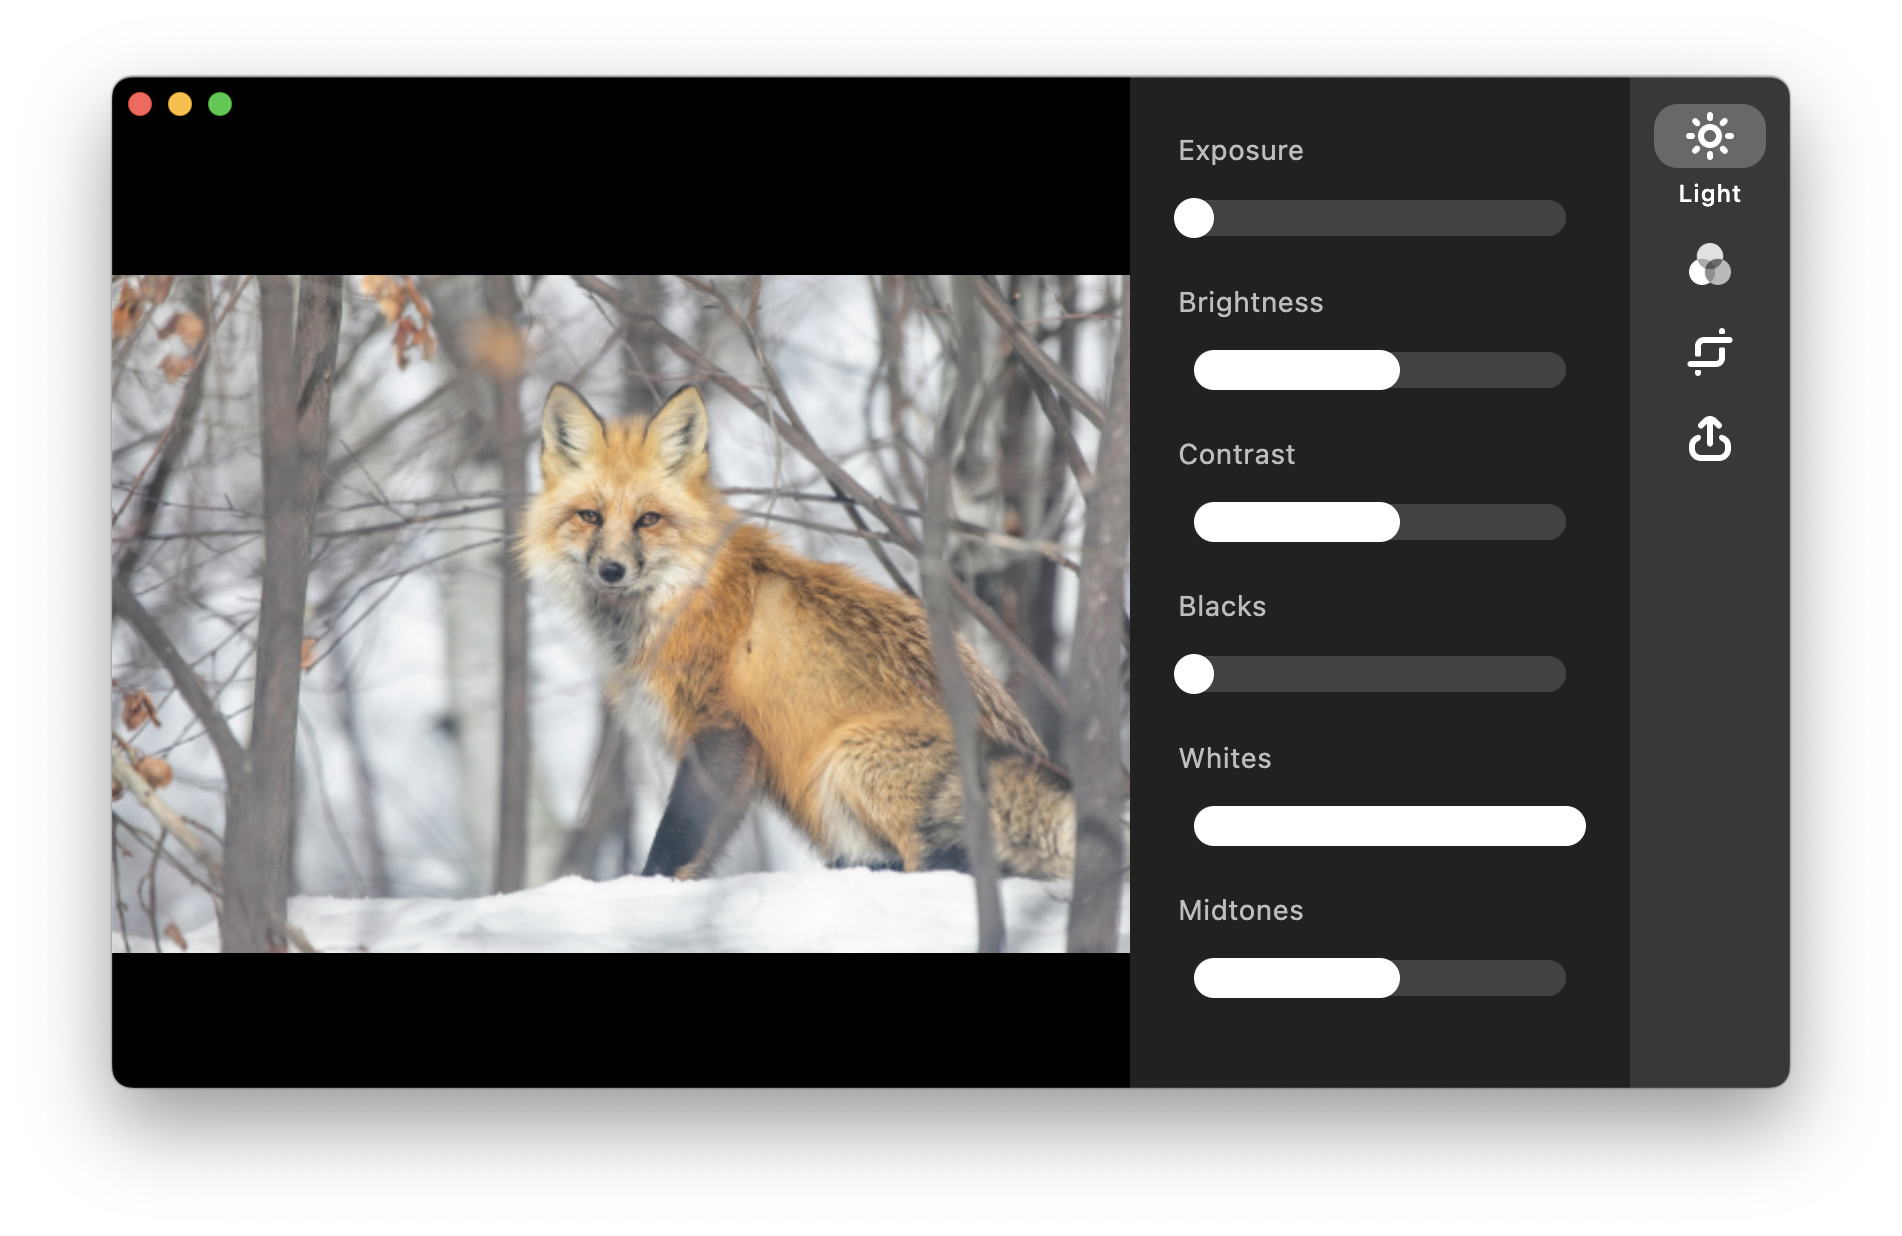
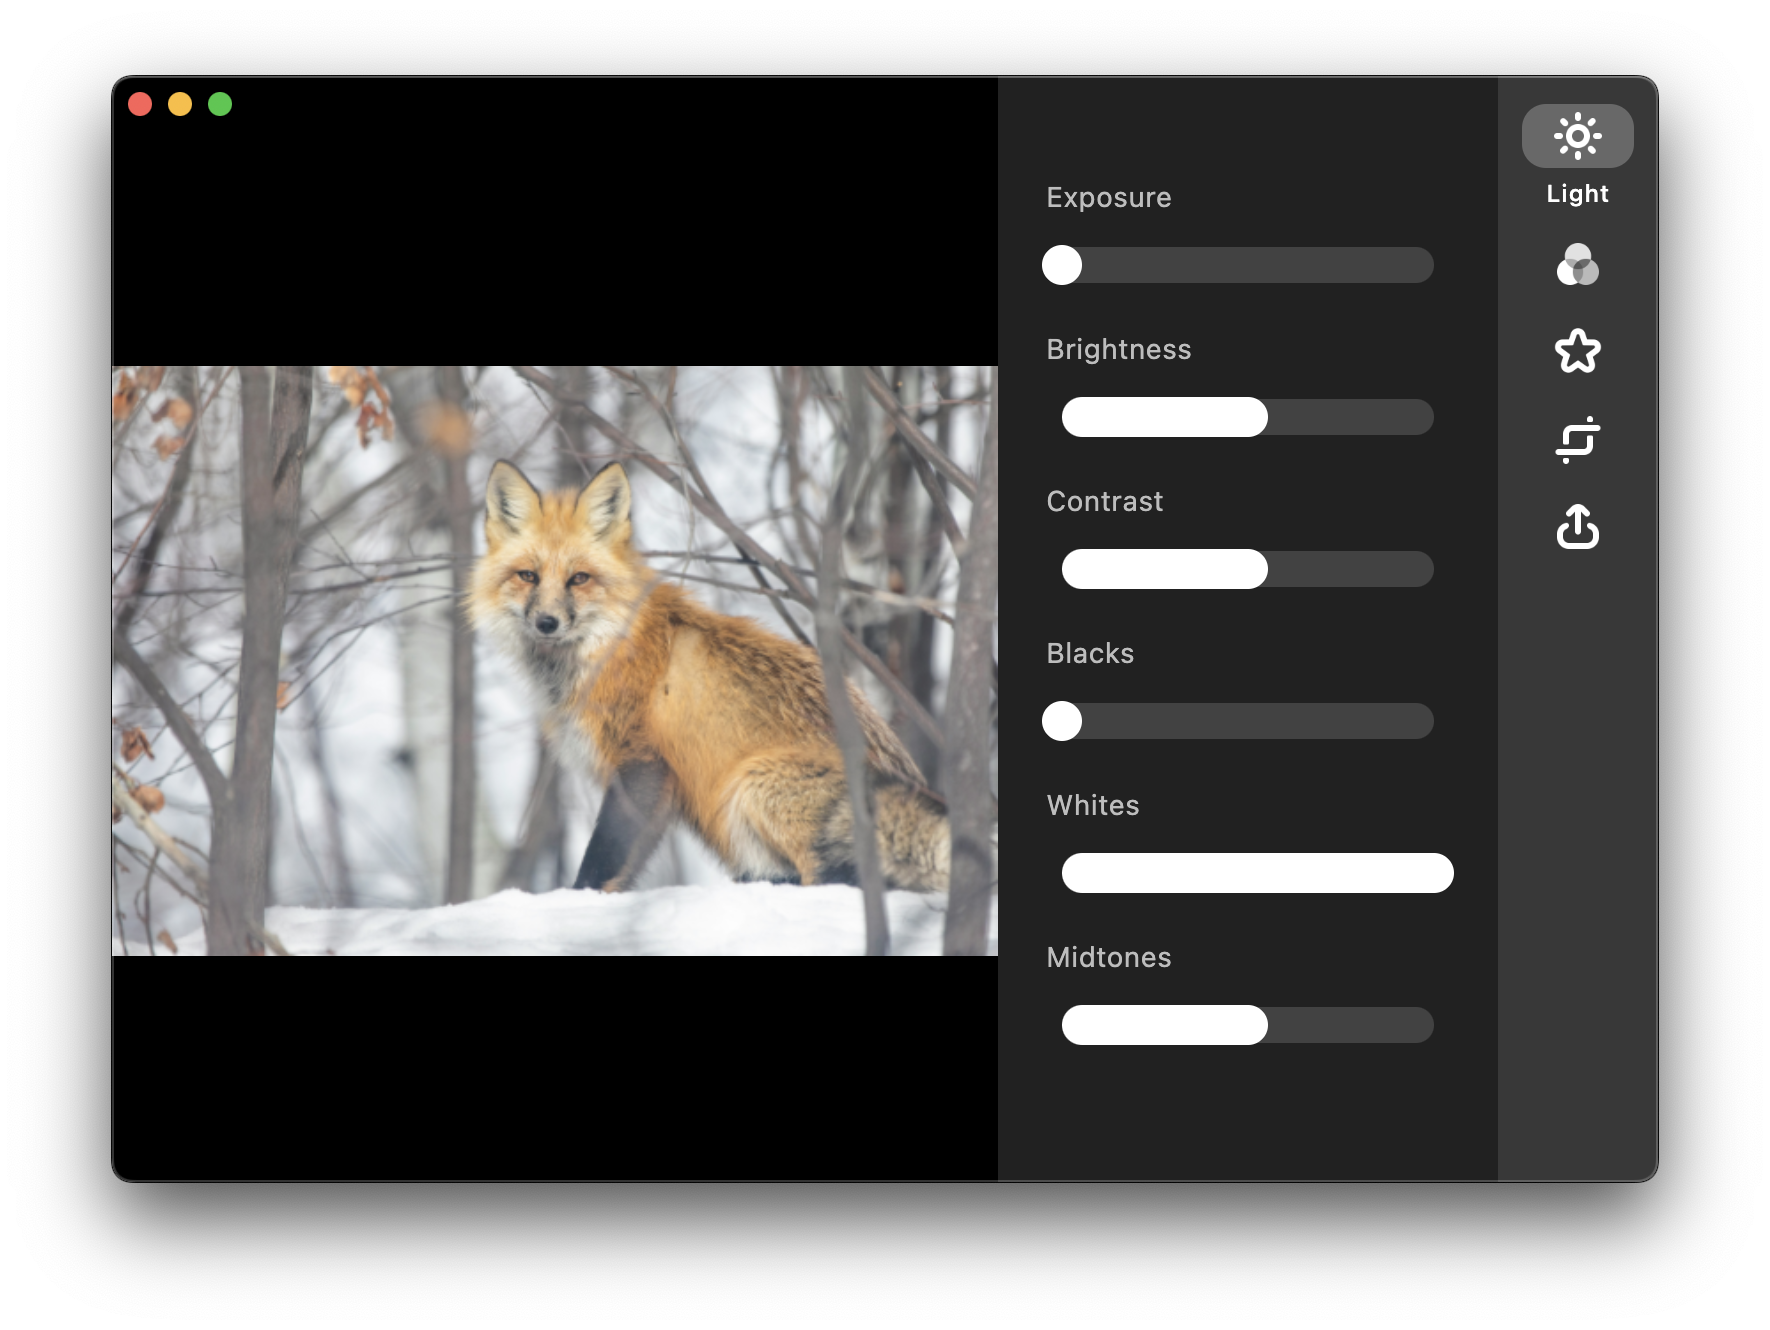
Add effects tab

diff --git a/lib/editor_page.dart b/lib/editor_page.dart
@@ -24,6 +24,8 @@ class SlyEditorPage extends StatefulWidget {
 
 class _SlyEditorPageState extends State<SlyEditorPage> {
   final GlobalKey<SlyButtonState> slyButtonKey = GlobalKey<SlyButtonState>();
+  final GlobalKey imageWidgetKey = GlobalKey();
+  final GlobalKey controlsWidgetKey = GlobalKey();
 
   late SlyImage flippedImage = widget.image;
   late SlyImage thumbnail;
@@ -165,6 +167,7 @@ class _SlyEditorPageState extends State<SlyEditorPage> {
       final croppedImage = SlyImage.fromImage(imgImage);
       croppedImage.lightAttributes = thumbnail.lightAttributes;
       croppedImage.colorAttributes = thumbnail.colorAttributes;
+      croppedImage.effectAttributes = thumbnail.effectAttributes;
       await croppedImage.applyEdits();
 
       if (!(await saveImage(await croppedImage.encode(format: format),
@@ -191,6 +194,8 @@ class _SlyEditorPageState extends State<SlyEditorPage> {
         thumbnail.lightAttributes = croppedThumbnail.lightAttributes;
     flippedImage.colorAttributes =
         thumbnail.colorAttributes = croppedThumbnail.colorAttributes;
+    flippedImage.effectAttributes =
+        thumbnail.effectAttributes = croppedThumbnail.effectAttributes;
 
     thumbnail.encode().then((data) {
       setState(() {
@@ -235,6 +240,7 @@ class _SlyEditorPageState extends State<SlyEditorPage> {
       croppedThumbnail = SlyImage.fromImage(image);
       croppedThumbnail.lightAttributes = thumbnail.lightAttributes;
       croppedThumbnail.colorAttributes = thumbnail.colorAttributes;
+      croppedThumbnail.effectAttributes = thumbnail.effectAttributes;
       updateImage();
     }
 
@@ -296,12 +302,17 @@ class _SlyEditorPageState extends State<SlyEditorPage> {
           );
 
           final imageWidget = Expanded(
-            flex: 7,
+            key: imageWidgetKey,
             child: AnimatedPadding(
-              duration: const Duration(milliseconds: 300),
+              duration: const Duration(milliseconds: 600),
               curve: Curves.easeOutQuint,
-              padding: EdgeInsets.all(_selectedPageIndex == 2 ? 32 : 0),
-              child: _selectedPageIndex == 2 ? cropImageView : imageView,
+              padding: _selectedPageIndex == 3
+                  ? const EdgeInsets.symmetric(
+                      horizontal: 32,
+                      vertical: 12,
+                    )
+                  : const EdgeInsets.all(0),
+              child: _selectedPageIndex == 3 ? cropImageView : imageView,
             ),
           );
 
@@ -415,6 +426,63 @@ class _SlyEditorPageState extends State<SlyEditorPage> {
                       onChanged: (value) {},
                       onChangeEnd: (value) {
                         croppedThumbnail.colorAttributes.values
+                            .elementAt(index)
+                            .value = value;
+                        updateImage();
+                      },
+                    ),
+                  ],
+                ),
+              );
+            },
+          );
+
+          final effectControls = ListView.builder(
+            key: const Key('effectControls'),
+            physics: constraints.maxWidth > 600
+                ? null
+                : const NeverScrollableScrollPhysics(),
+            shrinkWrap: true,
+            itemCount: croppedThumbnail.effectAttributes.length,
+            itemBuilder: (context, index) {
+              return Padding(
+                padding: EdgeInsets.only(
+                  left: 8,
+                  right: 8,
+                  top: index == 0 ? 16 : 0,
+                  bottom: index == croppedThumbnail.effectAttributes.length - 1
+                      ? 28
+                      : 0,
+                ),
+                child: Column(
+                  crossAxisAlignment: CrossAxisAlignment.start,
+                  children: <Widget>[
+                    Padding(
+                      padding: const EdgeInsets.only(left: 16, top: 8),
+                      child: Text(
+                        croppedThumbnail.effectAttributes.values
+                            .elementAt(index)
+                            .name,
+                        style: TextStyle(color: Colors.grey.shade400),
+                      ),
+                    ),
+                    SlySlider(
+                      value: croppedThumbnail.effectAttributes.values
+                          .elementAt(index)
+                          .value,
+                      secondaryTrackValue: croppedThumbnail
+                          .effectAttributes.values
+                          .elementAt(index)
+                          .anchor,
+                      min: croppedThumbnail.effectAttributes.values
+                          .elementAt(index)
+                          .min,
+                      max: croppedThumbnail.effectAttributes.values
+                          .elementAt(index)
+                          .max,
+                      onChanged: (value) {},
+                      onChangeEnd: (value) {
+                        croppedThumbnail.effectAttributes.values
                             .elementAt(index)
                             .value = value;
                         updateImage();
@@ -544,7 +612,7 @@ class _SlyEditorPageState extends State<SlyEditorPage> {
 
           void navigationDestinationSelected(int index) {
             if (_selectedPageIndex == index) return;
-            if (_selectedPageIndex == 2) updateCroppedImage();
+            if (_selectedPageIndex == 3) updateCroppedImage();
 
             _selectedPageIndex = index;
 
@@ -559,9 +627,13 @@ class _SlyEditorPageState extends State<SlyEditorPage> {
                 });
               case 2:
                 setState(() {
-                  controlsChild = geometryControls;
+                  controlsChild = effectControls;
                 });
               case 3:
+                setState(() {
+                  controlsChild = geometryControls;
+                });
+              case 4:
                 setState(() {
                   controlsChild = exportControls;
                 });
@@ -597,6 +669,13 @@ class _SlyEditorPageState extends State<SlyEditorPage> {
                   color: Colors.white,
                 ),
                 label: Text('Color'),
+              ),
+              NavigationRailDestination(
+                icon: ImageIcon(
+                  AssetImage('assets/icons/effects.png'),
+                  color: Colors.white,
+                ),
+                label: Text('Effects'),
               ),
               NavigationRailDestination(
                 icon: ImageIcon(
@@ -645,6 +724,13 @@ class _SlyEditorPageState extends State<SlyEditorPage> {
               ),
               NavigationDestination(
                 icon: ImageIcon(
+                  AssetImage('assets/icons/effects.png'),
+                  color: Colors.white,
+                ),
+                label: 'Effects',
+              ),
+              NavigationDestination(
+                icon: ImageIcon(
                   AssetImage('assets/icons/geometry.png'),
                   color: Colors.white,
                 ),
@@ -661,12 +747,17 @@ class _SlyEditorPageState extends State<SlyEditorPage> {
           );
 
           final controlsWidget = AnimatedSize(
+            key: controlsWidgetKey,
             duration: const Duration(milliseconds: 300),
             curve: Curves.easeOutQuint,
             child: AnimatedSwitcher(
                 switchInCurve: Curves.easeOutQuint,
-                switchOutCurve: Curves.easeInSine,
+                // switchOutCurve: Curves.easeInSine,
                 transitionBuilder: (Widget child, Animation<double> animation) {
+                  // Don't transition widgets animating out
+                  // as this causes issues with the geometry page
+                  if (child != controlsChild) return Container();
+
                   return SlideTransition(
                     key: ValueKey<Key?>(child.key),
                     position: Tween<Offset>(
@@ -715,7 +806,7 @@ class _SlyEditorPageState extends State<SlyEditorPage> {
                       child: ConstrainedBox(
                           constraints: BoxConstraints(
                             maxWidth:
-                                _selectedPageIndex == 2 ? double.infinity : 250,
+                                _selectedPageIndex == 3 ? double.infinity : 250,
                           ),
                           child: controlsWidget),
                     ),
@@ -740,15 +831,19 @@ class _SlyEditorPageState extends State<SlyEditorPage> {
                     child: MoveWindow(),
                   ),
                   Expanded(
-                    child: ListView(
-                      physics: _selectedPageIndex == 2
-                          ? const NeverScrollableScrollPhysics()
-                          : null,
-                      children: <Widget>[
-                        imageWidget,
-                        controlsWidget,
-                      ],
-                    ),
+                    child: _selectedPageIndex == 3
+                        ? Column(
+                            children: <Widget>[
+                              imageWidget,
+                              controlsWidget,
+                            ],
+                          )
+                        : ListView(
+                            children: <Widget>[
+                              imageWidget,
+                              controlsWidget,
+                            ],
+                          ),
                   ),
                 ],
               ),

diff --git a/lib/image.dart b/lib/image.dart
@@ -36,6 +36,13 @@ class SlyImage {
     // 'hue': SlyImageAttribute('Hue', 0, 0, 0, 360),
   };
 
+  Map<String, SlyImageAttribute> effectAttributes = {
+    'sharpness': SlyImageAttribute('Sharpness', 0, 0, 0, 1),
+    'sepia': SlyImageAttribute('Sepia', 0, 0, 0, 1),
+    'vignette': SlyImageAttribute('Vignette', 0, 0, 0, 1),
+    'border': SlyImageAttribute('Border', 0, 0, -1, 1),
+  };
+
   int get width {
     return image.width;
   }
@@ -95,7 +102,20 @@ class SlyImage {
         red: 50 * colorAttributes['temp']!.value,
         green: 50 * colorAttributes['tint']!.value * -1,
         blue: 50 * colorAttributes['temp']!.value * -1,
-      );
+      )
+      ..sepia(amount: effectAttributes['sepia']!.value)
+      ..convolution(
+        filter: [0, -1, 0, -1, 5, -1, 0, -1, 0],
+        amount: effectAttributes['sharpness']!.value,
+      )
+      ..vignette(amount: effectAttributes['vignette']!.value)
+      ..copyExpandCanvas(
+          backgroundColor: effectAttributes['border']!.value > 0
+              ? img.ColorRgb8(255, 255, 255)
+              : img.ColorRgb8(0, 0, 0),
+          padding: (effectAttributes['border']!.value.abs() *
+                  (_originalImage.width / 3))
+              .toInt());
 
     final editedImage = (await cmd.executeThread()).outputImage;
     if (editedImage == null) return;

diff --git a/lib/main.dart b/lib/main.dart
@@ -13,7 +13,7 @@ void main() {
 
   doWhenWindowReady(() {
     appWindow.alignment = Alignment.center;
-    appWindow.minSize = const Size(270, 270);
+    appWindow.minSize = const Size(320, 270);
   });
 }
 
@@ -62,7 +62,7 @@ class _SlyHomePageState extends State<SlyHomePage> {
               const ImageIcon(
                 AssetImage("assets/icons/sly.png"),
                 color: Colors.deepOrangeAccent,
-                size: 128,
+                size: 96,
               ),
               Padding(
                 padding: const EdgeInsets.only(bottom: 8),
